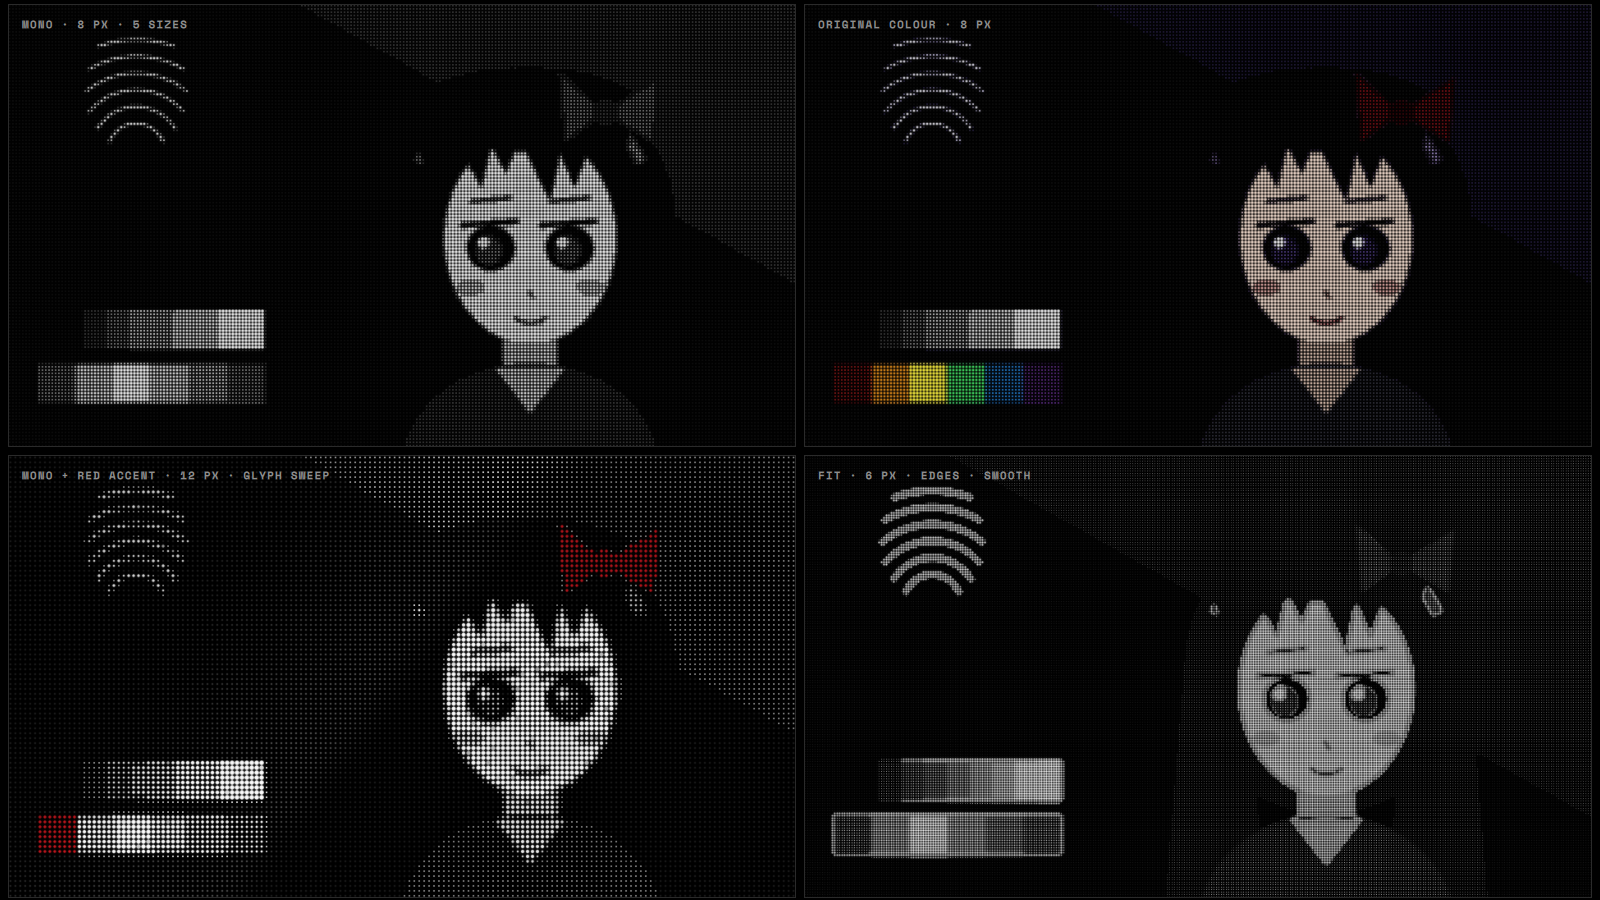
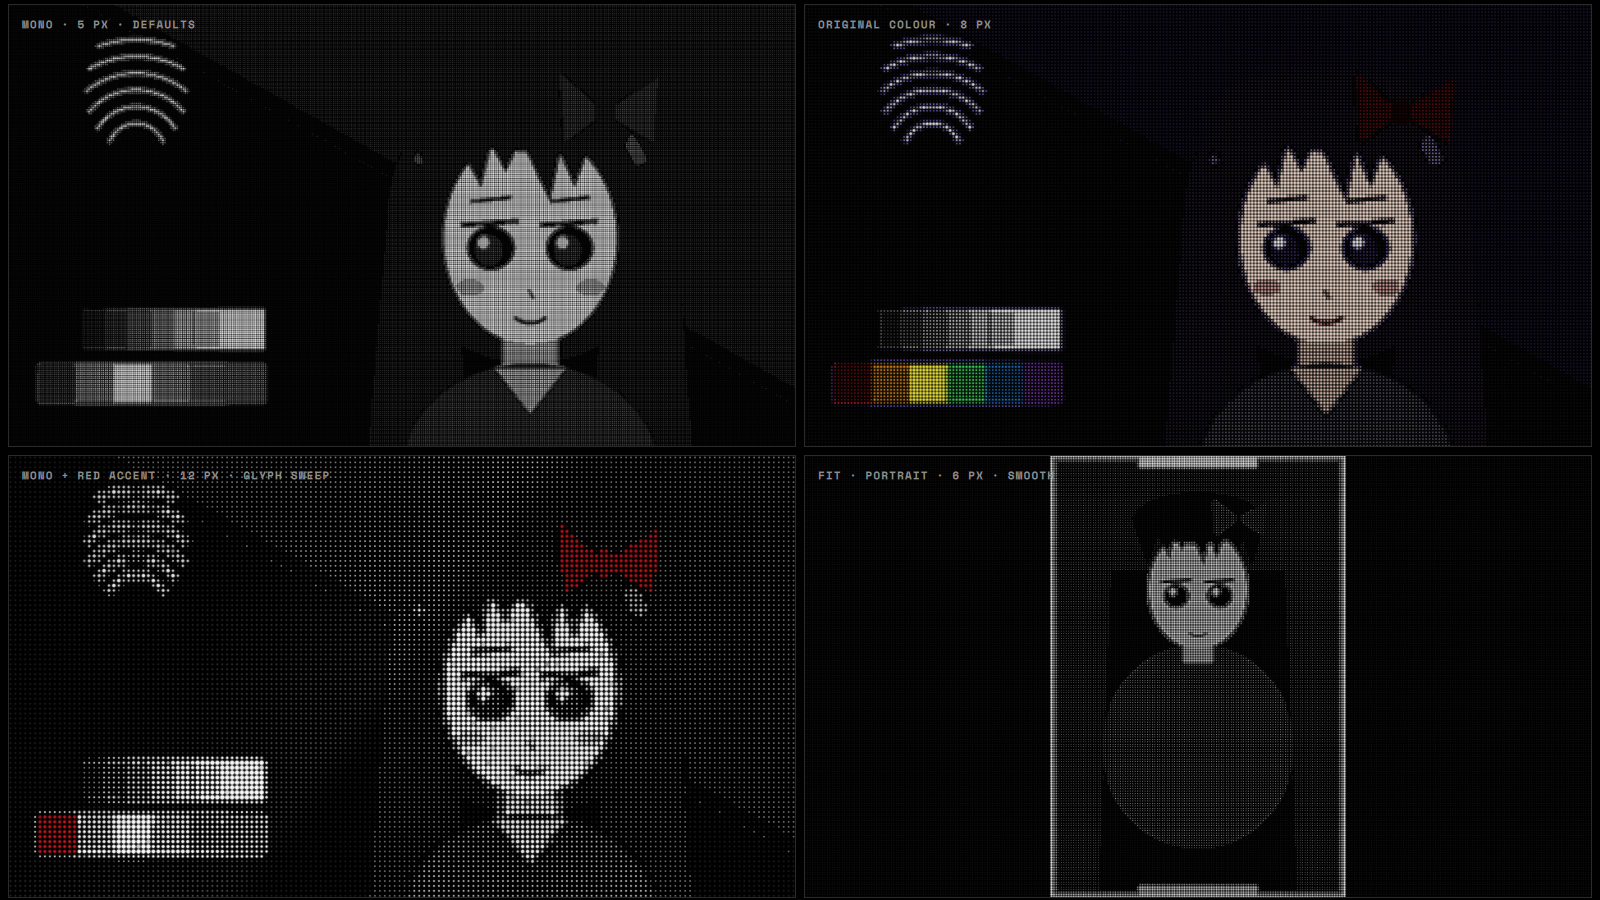
wallpaper: dotimage — finer dots, Fill focus that keeps faces, sharper detail
- Fill crops keep a vertical focus (FocusY, default 0.3 = upper third) instead of
  always the centre, so square / portrait anime art keeps the head; the picture is
  placed by hand in a screen-sized frame (Fill covers, Fit centres with the dot
  grid at the sides, Center = native size); config: 'Keep in view' + clearer labels,
  thumbnail shows the same framing
- defaults: pitch 5 (3..16 allowed), 6 dot sizes, contrast 1.2, detail on
- detail = subtle unsharp mask over the 4 neighbour cells + light edge boost
- auto levels: black point capped at 0.15 so flat mid-grey isn't erased
- previews on synthetic square / portrait / 21:9 / line-art cards

diff --git a/plasma/wallpapers/org.nothing.dotimage/contents/ui/config.qml b/plasma/wallpapers/org.nothing.dotimage/contents/ui/config.qml
@@ -25,15 +25,17 @@ Kirigami.FormLayout {
     property alias cfg_SlideShuffle: shuffle.checked
     property bool cfg_SlideShuffleDefault: false
     property int cfg_FillMode: 0
+    property real cfg_FocusY: 0.3
+    property real cfg_FocusYDefault: 0.3
     property int cfg_FillModeDefault: 0
     property alias cfg_DotPitch: pitch.value
-    property int cfg_DotPitchDefault: 8
-    property int cfg_Levels: 5
-    property int cfg_LevelsDefault: 5
+    property int cfg_DotPitchDefault: 5
+    property int cfg_Levels: 6
+    property int cfg_LevelsDefault: 6
     property alias cfg_MinDotSize: minDot.value
     property real cfg_MinDotSizeDefault: 0.18
     property alias cfg_Contrast: contrast.value
-    property real cfg_ContrastDefault: 1.15
+    property real cfg_ContrastDefault: 1.2
     property alias cfg_Brightness: brightness.value
     property real cfg_BrightnessDefault: 1.0
     property alias cfg_AutoLevels: autoLevels.checked
@@ -45,7 +47,7 @@ Kirigami.FormLayout {
     property int cfg_ColorMode: 0
     property int cfg_ColorModeDefault: 0
     property alias cfg_EdgeEmphasis: edges.checked
-    property bool cfg_EdgeEmphasisDefault: false
+    property bool cfg_EdgeEmphasisDefault: true
     property alias cfg_BackgroundGrid: bgGrid.checked
     property bool cfg_BackgroundGridDefault: true
     property alias cfg_Animate: animate.checked
@@ -90,12 +92,24 @@ Kirigami.FormLayout {
         radius: Kirigami.Units.cornerRadius
         border.width: drop.containsDrag ? 2 : 1
         border.color: drop.containsDrag ? Kirigami.Theme.highlightColor : Qt.rgba(1, 1, 1, 0.15)
-        Image {
+        Item {   // same framing as the wallpaper (Fill keeps the vertical focus; Fit = bars)
+            id: thumbFrame
             anchors.fill: parent; anchors.margins: 1
-            source: root.toUrl(root.cfg_Image)
-            sourceSize: Qt.size(width * 2, height * 2)
-            fillMode: [Image.PreserveAspectCrop, Image.PreserveAspectFit, Image.Pad][Math.max(0, Math.min(2, root.cfg_FillMode))]
-            asynchronous: true; clip: true
+            clip: true
+            Image {
+                id: thumb
+                source: root.toUrl(root.cfg_Image)
+                sourceSize: Qt.size(512, 512)
+                asynchronous: true
+                readonly property real nw: Math.max(1, implicitWidth)
+                readonly property real nh: Math.max(1, implicitHeight)
+                readonly property real s: root.cfg_FillMode === 0 ? Math.max(thumbFrame.width / nw, thumbFrame.height / nh)
+                                        : root.cfg_FillMode === 1 ? Math.min(thumbFrame.width / nw, thumbFrame.height / nh)
+                                        : Math.min(thumbFrame.width / nw, thumbFrame.height / nh)   // Center: approximated as Fit
+                width: nw * s; height: nh * s
+                x: (thumbFrame.width - width) / 2
+                y: (thumbFrame.height - height) * (root.cfg_FillMode === 0 && height > thumbFrame.height ? root.cfg_FocusY : 0.5)
+            }
         }
         QQC2.Label {
             anchors.centerIn: parent
@@ -169,9 +183,22 @@ Kirigami.FormLayout {
 
     QQC2.ComboBox {
         Kirigami.FormData.label: "Positioning:"
-        model: ["Fill (crop to screen)", "Fit (whole picture, black bars)", "Center (native size)"]
+        model: ["Fill: cover the whole screen (crops)", "Fit: whole picture, dot grid at the sides", "Center: native size"]
         currentIndex: Math.max(0, Math.min(2, root.cfg_FillMode))
         onActivated: index => root.cfg_FillMode = index
+    }
+    QQC2.ComboBox {
+        Kirigami.FormData.label: "Keep in view:"
+        visible: root.cfg_FillMode === 0
+        model: ["Top", "Upper third (faces)", "Center", "Bottom"]
+        readonly property var values: [0.0, 0.3, 0.5, 1.0]
+        currentIndex: {
+            let best = 0
+            for (let i = 1; i < values.length; i++)
+                if (Math.abs(values[i] - root.cfg_FocusY) < Math.abs(values[best] - root.cfg_FocusY)) best = i
+            return best
+        }
+        onActivated: index => root.cfg_FocusY = values[index]
     }
 
     Item { Kirigami.FormData.isSection: true }
@@ -180,13 +207,13 @@ Kirigami.FormLayout {
     QQC2.SpinBox {
         id: pitch
         Kirigami.FormData.label: "Dot pitch:"
-        from: 5; to: 16
+        from: 3; to: 16
         textFromValue: v => v + " px"
         valueFromText: t => parseInt(t)
     }
     QQC2.ComboBox {
         Kirigami.FormData.label: "Dot sizes:"
-        model: ["Smooth (continuous)", "3", "4", "5 (Nothing look)", "6"]
+        model: ["Smooth (continuous)", "3", "4", "5", "6 (default)"]
         readonly property var values: [0, 3, 4, 5, 6]
         currentIndex: Math.max(0, values.indexOf(root.cfg_Levels))
         onActivated: index => root.cfg_Levels = values[index]
@@ -230,7 +257,7 @@ Kirigami.FormLayout {
         QQC2.Slider { id: contrast; from: 0.5; to: 2.0; stepSize: 0.05 }
         QQC2.Label { text: contrast.value.toFixed(2); opacity: 0.7 }
     }
-    QQC2.CheckBox { id: edges; Kirigami.FormData.label: "Detail:"; text: "Edge emphasis (line art)" }
+    QQC2.CheckBox { id: edges; Kirigami.FormData.label: "Detail:"; text: "Sharpen edges (line art)" }
     QQC2.CheckBox { id: bgGrid; text: "Faint background dot grid" }
 
     Item { Kirigami.FormData.isSection: true }

diff --git a/plasma/wallpapers/org.nothing.dotimage/contents/ui/DotImageField.qml b/plasma/wallpapers/org.nothing.dotimage/contents/ui/DotImageField.qml
@@ -18,17 +18,18 @@ Item {
 
     property url source
     property int fillMode: 0              // 0 Fill (cover), 1 Fit (contain), 2 Center
-    property int pitch: 8
+    property real focusY: 0.3            // Fill only: 0 top … 0.5 centre … 1 bottom
+    property int pitch: 5
     property real maxRatio: 0.84
     property real minDot: 0.18
-    property int levels: 5                // 0 = continuous
+    property int levels: 6                // 0 = continuous
     property real contrast: 1.0
     property real brightness: 1.0
     property bool autoLevels: true
     property real blackPoint: 0.0
     property real whitePoint: 1.0
     property int colorMode: 0             // 0 mono, 1 colour, 2 mono + red accent
-    property bool edges: false
+    property bool edges: true             // subtle sharpening + edge boost
     property bool backgroundGrid: true
     property bool animated: true
     property bool twinkle: true
@@ -93,24 +94,39 @@ Item {
         width: field.width; height: field.height
         onReadyChanged: if (ready) field._tryFlip()
 
-        Image {
-            id: img
-            anchors.fill: parent
-            asynchronous: true
-            autoTransform: true
-            cache: false
-            smooth: true
-            mipmap: true                    // trilinear shrink into the 2-texel-per-cell texture
-            fillMode: field.fillMode === 1 ? Image.PreserveAspectFit
-                    : field.fillMode === 2 ? Image.Pad : Image.PreserveAspectCrop
-            // decode near screen size (Center keeps native pixels)
-            sourceSize: field.fillMode === 2 ? undefined
-                : Qt.size(Math.max(1, slot.width * Screen.devicePixelRatio), Math.max(1, slot.height * Screen.devicePixelRatio))
-            onStatusChanged: if (status === Image.Error) console.warn("org.nothing.dotimage: cannot load", source)
+        // the screen-sized frame the shader sees; the picture is placed in it by hand so
+        // Fill can keep a chosen vertical focus (faces) instead of always cropping the centre
+        Item {
+            id: frame
+            width: slot.width; height: slot.height
+            clip: true
+            Image {
+                id: img
+                asynchronous: true
+                autoTransform: true
+                cache: false
+                smooth: true
+                mipmap: true                // trilinear shrink into the 2-texel-per-cell texture
+                fillMode: Image.Stretch     // geometry below keeps the aspect ratio
+                // decode at most ~1.5x the screen's long side (Center keeps native pixels)
+                sourceSize: field.fillMode === 2 ? undefined
+                    : Qt.size(slot.cap, slot.cap)
+                readonly property real nw: Math.max(1, implicitWidth)
+                readonly property real nh: Math.max(1, implicitHeight)
+                readonly property real s: field.fillMode === 0 ? Math.max(slot.width / nw, slot.height / nh)
+                                        : field.fillMode === 1 ? Math.min(slot.width / nw, slot.height / nh)
+                                        : 1 / Screen.devicePixelRatio
+                width: Math.round(nw * s); height: Math.round(nh * s)
+                x: Math.round((slot.width - width) / 2)
+                // Fill: focus 0 = keep the top, 0.5 = centre, 1 = keep the bottom
+                y: Math.round((slot.height - height) * (field.fillMode === 0 && height > slot.height ? field.focusY : 0.5))
+                onStatusChanged: if (status === Image.Error) console.warn("org.nothing.dotimage: cannot load", source)
+            }
         }
+        readonly property int cap: Math.max(16, Math.round(1.5 * Math.max(width, height) * Screen.devicePixelRatio))
         ShaderEffectSource {
             id: tex
-            sourceItem: img
+            sourceItem: frame
             hideSource: true
             visible: false
             smooth: true

diff --git a/previews/DotImageDetail.qml b/previews/DotImageDetail.qml
@@ -2,9 +2,8 @@
 import QtQuick
 import "../plasma/wallpapers/org.nothing.dotimage/contents/ui" as Dot
 
-// org.nothing.dotimage at 1:1 (no scaling): 1920x1080 screens, cropped. Top row: the
-// synthetic test card's face at two pitches. Bottom row: a KDE-shipped photo wallpaper
-// (Coast, CC-BY-SA-4.0, read from /usr/share/wallpapers, not copied into the repo).
+// org.nothing.dotimage at 1:1 (no scaling): 1920x1080 screens, cropped, default settings
+// unless labelled. Synthetic cards only (tools/dotimage_testcard.py --all).
 //   tools/render.sh previews/DotImageDetail.qml previews/dotimage-detail.png 1600 900
 Rectangle {
     color: "#000000"
@@ -21,17 +20,19 @@ Rectangle {
             transitionMs: 0; animated: false
         }
         Rectangle { anchors.fill: parent; color: "transparent"; border.color: "#2a2a2a"; border.width: 1 }
+        Rectangle { x: 8; y: 8; width: lbl.width + 12; height: lbl.height + 6; color: "#000000" }
         Text {
-            x: 14; y: 12; text: cr.label; color: "#8e8e8e"
+            id: lbl; x: 14; y: 11; text: cr.label; color: "#8e8e8e"
             font.family: "Space Mono"; font.pixelSize: 11; font.letterSpacing: 1.2
         }
     }
-    readonly property url photo: "file:///usr/share/wallpapers/Coast/contents/images/5120x2880.png"
+    readonly property url square: Qt.resolvedUrl("assets/dotimage-square.png")
+    readonly property url lineart: Qt.resolvedUrl("assets/dotimage-lineart.png")
     Grid {
         x: 8; y: 4; columns: 2; spacing: 8
-        Crop { label: "1:1 · MONO · 6 PX"; at: Qt.point(1272, 560); field.pitch: 6 }
-        Crop { label: "1:1 · MONO + RED · 10 PX"; at: Qt.point(1272, 520); field.pitch: 10; field.colorMode: 2 }
-        Crop { label: "1:1 · PHOTO · MONO · 8 PX"; at: Qt.point(960, 540); field.pitch: 8; field.source: parent.parent.photo }
-        Crop { label: "1:1 · PHOTO · COLOUR · 8 PX"; at: Qt.point(960, 540); field.pitch: 8; field.colorMode: 1; field.source: parent.parent.photo }
+        Crop { label: "SQUARE · FILL · 5 PX (DEFAULT)"; at: Qt.point(960, 300); field.source: parent.parent.square }
+        Crop { label: "SQUARE · MONO + RED · 3 PX"; at: Qt.point(1010, 230); field.source: parent.parent.square; field.pitch: 3; field.colorMode: 2 }
+        Crop { label: "LINE ART · 5 PX · DETAIL ON (DEFAULT)"; at: Qt.point(1340, 560); field.source: parent.parent.lineart }
+        Crop { label: "LINE ART · 5 PX · DETAIL OFF"; at: Qt.point(1340, 560); field.source: parent.parent.lineart; field.edges: false }
     }
 }

diff --git a/previews/DotImageFraming.qml b/previews/DotImageFraming.qml
@@ -1,0 +1,36 @@
+// render: rhi   (tools/render.sh uses the OpenGL RHI for this file so the ShaderEffect renders)
+import QtQuick
+import "../plasma/wallpapers/org.nothing.dotimage/contents/ui" as Dot
+
+// org.nothing.dotimage framing on synthetic cards (tools/dotimage_testcard.py --all): each
+// frame is a full 1920x1080 screen scaled down. White border = picture edge, bars = TOP / BOTTOM.
+//   tools/render.sh previews/DotImageFraming.qml previews/dotimage-framing.png 1600 690
+Rectangle {
+    color: "#000000"
+    component Frame: Item {
+        id: fr
+        property alias field: f
+        property string label
+        width: 524; height: 295
+        Item {
+            width: 1920; height: 1080; scale: parent.width / 1920; transformOrigin: Item.TopLeft
+            layer.enabled: true; layer.smooth: true; layer.mipmap: true
+            Dot.DotImageField { id: f; anchors.fill: parent; transitionMs: 0; animated: false; pitch: 6 }
+        }
+        Rectangle { anchors.fill: parent; color: "transparent"; border.color: "#2a2a2a"; border.width: 1 }
+        Rectangle { x: 8; y: 8; width: lbl.width + 12; height: lbl.height + 6; color: "#000000" }
+        Text {
+            id: lbl; x: 14; y: 11; text: fr.label; color: "#8e8e8e"
+            font.family: "Space Mono"; font.pixelSize: 11; font.letterSpacing: 1.2
+        }
+    }
+    Grid {
+        x: 8; y: 8; columns: 3; spacing: 8
+        Frame { label: "SQUARE · FILL · FOCUS 0.3 (DEFAULT)"; field.source: Qt.resolvedUrl("assets/dotimage-square.png") }
+        Frame { label: "SQUARE · FILL · CENTRE (OLD BEHAVIOUR)"; field.source: Qt.resolvedUrl("assets/dotimage-square.png"); field.focusY: 0.5 }
+        Frame { label: "SQUARE · FIT"; field.source: Qt.resolvedUrl("assets/dotimage-square.png"); field.fillMode: 1 }
+        Frame { label: "PORTRAIT 2:3 · FILL · FOCUS 0.3"; field.source: Qt.resolvedUrl("assets/dotimage-portrait.png") }
+        Frame { label: "PORTRAIT 2:3 · FIT"; field.source: Qt.resolvedUrl("assets/dotimage-portrait.png"); field.fillMode: 1 }
+        Frame { label: "ULTRA-WIDE 21:9 · FILL"; field.source: Qt.resolvedUrl("assets/dotimage-ultrawide.png") }
+    }
+}

diff --git a/plasma/wallpapers/org.nothing.dotimage/contents/ui/LevelProbe.qml b/plasma/wallpapers/org.nothing.dotimage/contents/ui/LevelProbe.qml
@@ -3,7 +3,7 @@ import QtQuick
 // One-shot luminance histogram of a picture -> auto levels for the shader.
 // Draws the image at 64x64 into a tiny software canvas once per source, reads the pixels
 // back and returns vector3d(black point, white point, gamma):
-//   black / white = 2nd / 99th luminance percentile (so dark anime art is stretched),
+//   black / white = 2nd (max 0.15) / 99th luminance percentile (dark art is stretched),
 //   gamma pulls the stretched median towards ~0.30 (clamped 0.75..1.35); dark backgrounds
 //   stay dark (missing dots) instead of turning into a sheet of small dots.
 // `done` flips true when levels are known (or the probe failed -> neutral levels).
@@ -43,7 +43,8 @@ Canvas {
         }
         if (n < 16) { levels = Qt.vector3d(0, 1, 1); done = true; return }
         const pct = f => { let acc = 0; for (let v = 0; v < 256; v++) { acc += hist[v]; if (acc >= f * n) return v / 255 } return 1 }
-        let lo = pct(0.02), hi = pct(0.99)
+        // black point capped at 0.15: a flat mid-grey backdrop stays faint dots, not nothing
+        let lo = Math.min(0.15, pct(0.02)), hi = Math.max(lo + 0.15, pct(0.99))
         if (hi - lo < 0.15) { const m = (hi + lo) / 2; lo = Math.max(0, m - 0.25); hi = Math.min(1, m + 0.25) }
         const med = Math.min(0.95, Math.max(0.03, (pct(0.5) - lo) / (hi - lo)))
         const g = Math.min(1.35, Math.max(0.75, Math.log(0.30) / Math.log(med)))

diff --git a/plasma/wallpapers/org.nothing.dotimage/contents/ui/main.qml b/plasma/wallpapers/org.nothing.dotimage/contents/ui/main.qml
@@ -52,9 +52,10 @@ WallpaperItem {
         anchors.fill: parent
         source: root.slideshow ? root.slideUrl : root.toUrl(root.cfg.Image)
         fillMode: Math.max(0, Math.min(2, root.cfg.FillMode))
-        pitch: Math.max(5, Math.min(16, root.cfg.DotPitch))
+        focusY: Math.max(0, Math.min(1, root.cfg.FocusY))
+        pitch: Math.max(3, Math.min(16, root.cfg.DotPitch))
         minDot: Math.max(0, Math.min(0.6, root.cfg.MinDotSize))
-        levels: [0, 3, 4, 5, 6].includes(root.cfg.Levels) ? root.cfg.Levels : 5
+        levels: [0, 3, 4, 5, 6].includes(root.cfg.Levels) ? root.cfg.Levels : 6
         contrast: Math.max(0.5, Math.min(2.5, root.cfg.Contrast))
         brightness: Math.max(0.4, Math.min(2.5, root.cfg.Brightness))
         autoLevels: root.cfg.AutoLevels

diff --git a/previews/DotImagePreview.qml b/previews/DotImagePreview.qml
@@ -30,9 +30,9 @@ Rectangle {
     }
     Grid {
         x: 8; y: 4; columns: 2; spacing: 8
-        Frame { label: "MONO · 8 PX · 5 SIZES"; field.pitch: 8 }
+        Frame { label: "MONO · 5 PX · DEFAULTS"; field.pitch: 5 }
         Frame { label: "ORIGINAL COLOUR · 8 PX"; field.pitch: 8; field.colorMode: 1 }
         Frame { label: "MONO + RED ACCENT · 12 PX · GLYPH SWEEP"; field.pitch: 12; field.colorMode: 2; field.animated: true; field.time: 1.25 }
-        Frame { label: "FIT · 6 PX · EDGES · SMOOTH"; field.pitch: 6; field.fillMode: 1; field.edges: true; field.levels: 0 }
+        Frame { label: "FIT · PORTRAIT · 6 PX · SMOOTH"; field.pitch: 6; field.fillMode: 1; field.levels: 0; field.source: Qt.resolvedUrl("assets/dotimage-portrait.png") }
     }
 }

diff --git a/tools/dotimage_testcard.py b/tools/dotimage_testcard.py
@@ -4,7 +4,8 @@
 A dark, anime-ish portrait drawn from primitives (dark hair, light face, big eyes,
 a red ribbon, line-art strokes) plus a grey ramp and a colour strip, so a preview
 shows tone mapping, dark-art handling, colour and the red accent at once.
-usage: python3 tools/dotimage_testcard.py previews/assets/dotimage-testcard.png
+usage: python3 tools/dotimage_testcard.py previews/assets/dotimage-testcard.png [--all]
+       (--all also writes dotimage-{square,portrait,ultrawide,lineart}.png next to it)
 """
 import math, sys
 from PIL import Image, ImageDraw, ImageFilter
@@ -64,3 +65,64 @@ cols = [(230, 40, 40), (240, 150, 30), (240, 230, 60), (60, 200, 90), (40, 140, 
 for k, c in enumerate(cols):
     d.rectangle([60 + 77 * k, 730, 60 + 77 * (k + 1), 810], fill=c)
 img.save(sys.argv[1] if len(sys.argv) > 1 else "dotimage-testcard.png")
+
+
+# ---- more synthetic cards: framing (square / portrait / ultra-wide) and fine line art ----
+def figure_card(w, h, path):
+    """Anime-ish bust with the head in the upper part of the frame (as in most art):
+    a centre crop to 16:9 cuts the head, a top-ish focus keeps it. Markers: a white
+    border (coverage check) and TOP / BOTTOM bars."""
+    im = Image.new("RGB", (w, h), (52, 48, 70))
+    d = ImageDraw.Draw(im)
+    u = min(w, h) / 1024
+    cx, cy = w / 2, h * 0.30
+    E = lambda x0, y0, x1, y1, **k: d.ellipse([cx + x0 * u, cy + y0 * u, cx + x1 * u, cy + y1 * u], **k)
+    P = lambda pts, **k: d.polygon([(cx + x * u, cy + y * u) for x, y in pts], **k)
+    P([(-300, -60), (-360, h / u), (300 + 60, h / u), (300, -60)], fill=(30, 26, 40))          # hair back
+    E(-330, 200, 330, 900, fill=(70, 70, 86))                                                  # shoulders
+    d.rectangle([cx - 50 * u, cy + 150 * u, cx + 50 * u, cy + 260 * u], fill=(220, 196, 182))  # neck
+    E(-170, -200, 170, 210, fill=(238, 218, 204))                                               # face
+    E(-220, -330, 220, -150, fill=(30, 26, 40))                                                 # fringe
+    for i, ox in enumerate(range(-180, 200, 60)):
+        P([(ox - 50, -250), (ox + 60, -250), (ox + 5 + (i % 2) * 15, -80 - (i % 3) * 25)], fill=(30, 26, 40))
+    for ex in (-75, 75):
+        E(ex - 45, -15, ex + 45, 70, fill=(26, 22, 50))
+        E(ex - 24, 0, ex - 2, 24, fill=(255, 255, 255))
+        d.line([(cx + (ex - 55) * u, cy - 20 * u), (cx + (ex + 52) * u, cy - 28 * u)], fill=(10, 8, 16), width=max(2, int(9 * u)))
+    d.arc([cx - 34 * u, cy + 130 * u, cx + 34 * u, cy + 168 * u], 20, 160, fill=(150, 60, 70), width=max(2, int(6 * u)))
+    P([(140, -240), (240, -300), (230, -180)], fill=(215, 30, 40))                              # red ribbon
+    P([(140, -240), (50, -310), (60, -180)], fill=(215, 30, 40))
+    b = max(6, int(14 * u))
+    d.rectangle([0, 0, w - 1, h - 1], outline=(255, 255, 255), width=b)
+    d.rectangle([w * 0.3, b, w * 0.7, b + 30 * u], fill=(255, 255, 255))                        # TOP bar
+    d.rectangle([w * 0.3, h - b - 30 * u, w * 0.7, h - b], fill=(200, 200, 200))                # BOTTOM bar
+    im.filter(ImageFilter.GaussianBlur(0.8)).save(path)
+
+
+def lineart_card(w, h, path):
+    """Fine black-on-white line art: 2-6 px strokes, hatching, a face outline."""
+    im = Image.new("RGB", (w, h), (246, 244, 240))
+    d = ImageDraw.Draw(im)
+    for k in range(5):                       # stroke-width ladder
+        d.line([(80, 120 + 60 * k), (620, 160 + 60 * k)], fill=(20, 20, 20), width=2 + k)
+    for i in range(0, 300, 8):               # hatching, 8 px apart
+        d.line([(80 + i, 520), (80 + i + 120, 820)], fill=(30, 30, 30), width=2)
+    cx, cy = 1150, 450                       # outline face
+    d.ellipse([cx - 210, cy - 260, cx + 210, cy + 260], outline=(15, 15, 15), width=5)
+    for ex in (-85, 85):
+        d.ellipse([cx + ex - 50, cy - 40, cx + ex + 50, cy + 50], outline=(15, 15, 15), width=4)
+        d.ellipse([cx + ex - 18, cy - 10, cx + ex + 18, cy + 26], fill=(15, 15, 15))
+    d.arc([cx - 60, cy + 90, cx + 60, cy + 160], 20, 160, fill=(15, 15, 15), width=4)
+    for k in range(14):                      # hair strands
+        a = math.pi * (0.95 + 0.9 * k / 13)
+        d.arc([cx - 260 + 6 * k, cy - 330, cx + 260 - 6 * k, cy + 150], math.degrees(a), math.degrees(a) + 40, fill=(15, 15, 15), width=3)
+    im.save(path)
+
+
+if __name__ == "__main__" and len(sys.argv) > 2 and sys.argv[2] == "--all":
+    import os
+    out = os.path.dirname(sys.argv[1]) or "."
+    figure_card(1024, 1024, os.path.join(out, "dotimage-square.png"))
+    figure_card(1080, 1620, os.path.join(out, "dotimage-portrait.png"))
+    figure_card(3440, 1440, os.path.join(out, "dotimage-ultrawide.png"))
+    lineart_card(1600, 900, os.path.join(out, "dotimage-lineart.png"))
